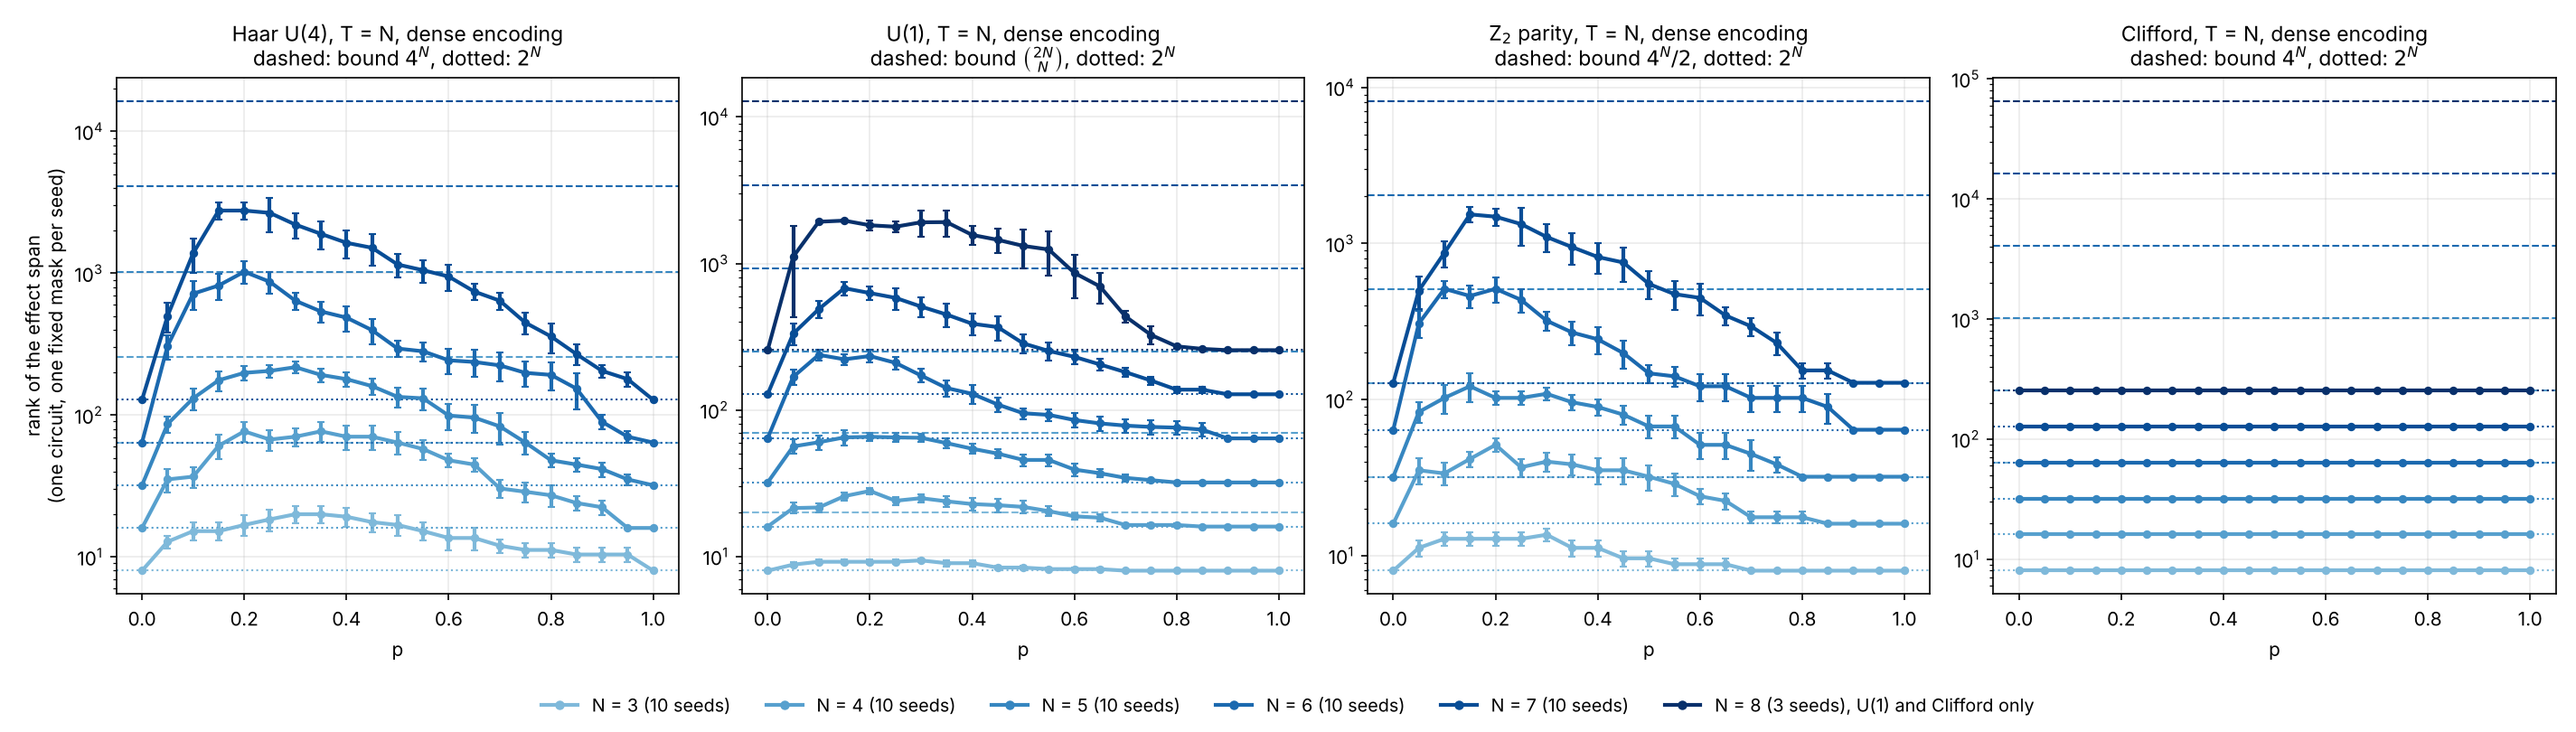
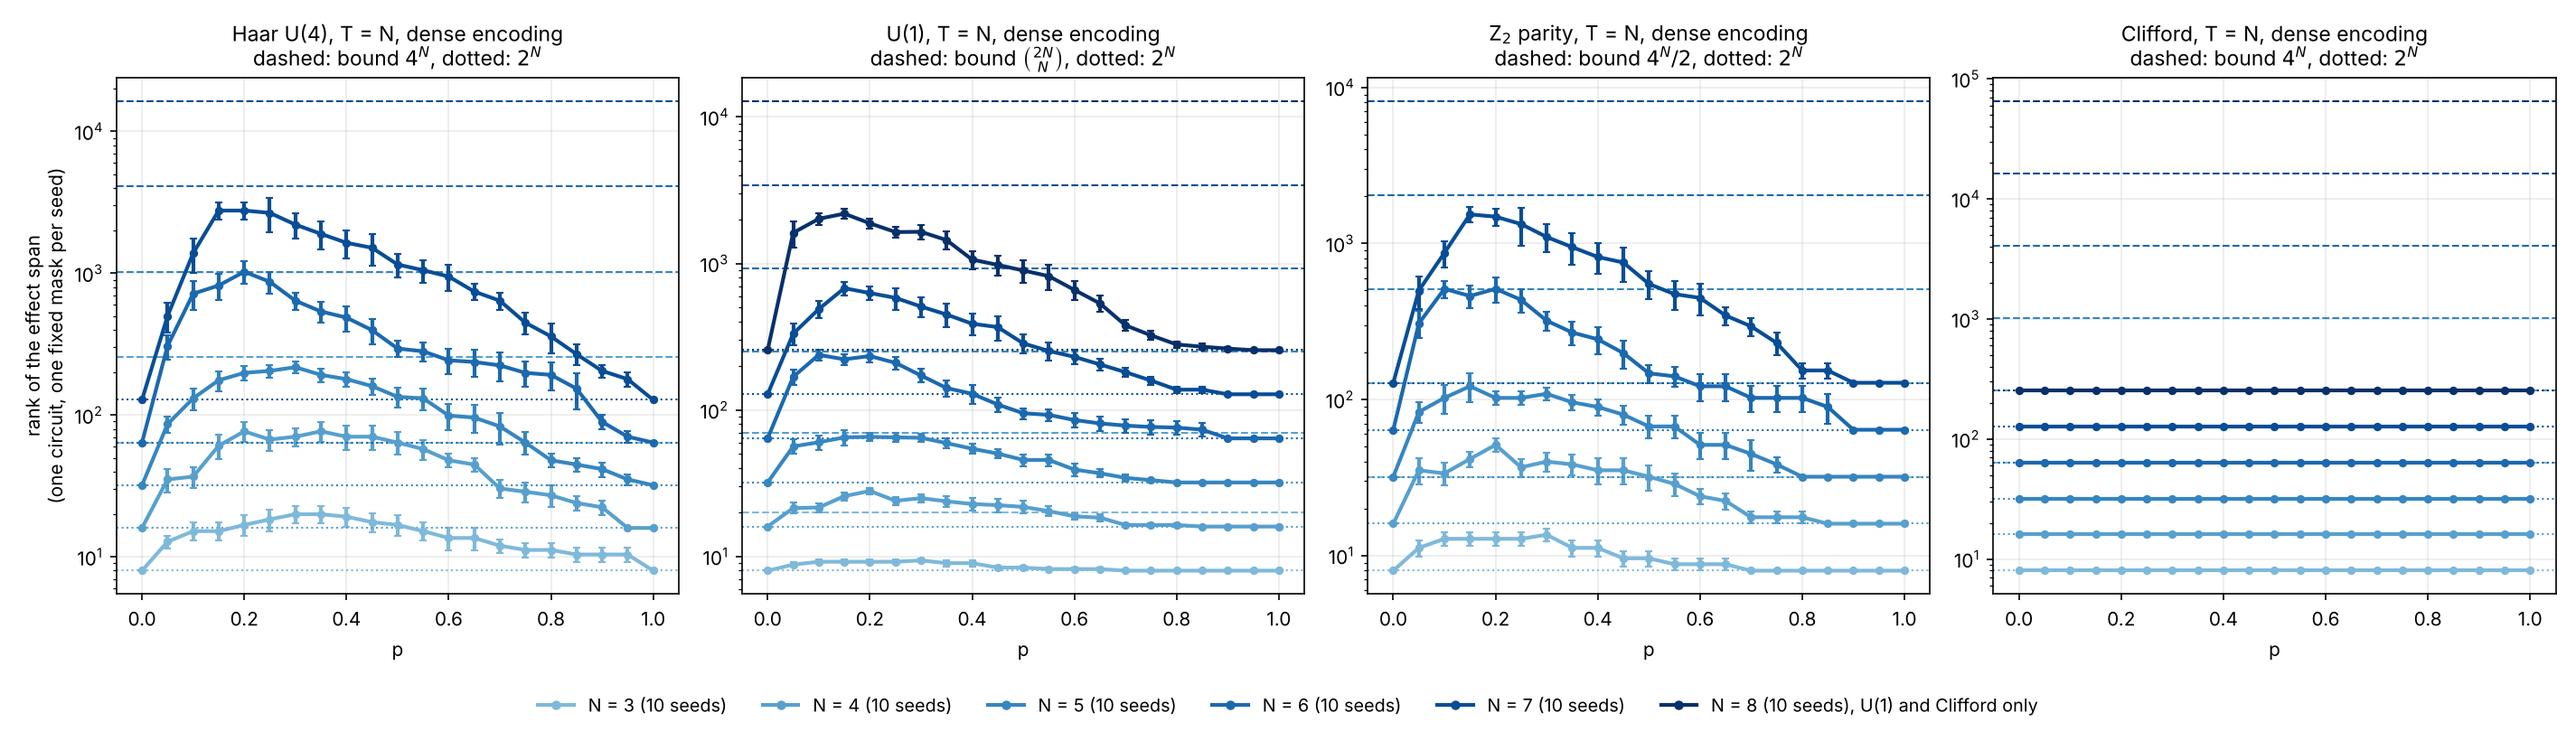
Effect-space rank: N = 8 with 10 seeds for U(1) and Clifford (#313)
Claude-Session: https://claude.ai/code/session_0185MugxcGRu9JhdfzRRnH1t

diff --git a/experiments/effect_rank/README.md b/experiments/effect_rank/README.md
@@ -77,16 +77,18 @@ rank `2^10` alone would take 8 GB.
 - **Angle encoding, near the bound.** At the peak, the angle rank reaches a
   fraction of its bound that grows with `N` for Haar (0.69, 0.76, 0.78, 0.86,
   0.89 of `3^N` from `N = 3` to 7) and Z2 (0.84 to 0.95 of `(3^N + 1) / 2`).
-  U(1) stays near 0.6 of the same bound (0.67 at `N = 3`, 0.60 at `N = 7` and
-  `N = 8`): with the same bound as Z2, U(1) reaches less of it.
+  U(1) stays between 0.53 and 0.68 of the same bound with no trend (0.67 at
+  `N = 3`, 0.60 at `N = 7`, 0.65 at `N = 8`): with the same bound as Z2, U(1)
+  reaches less of it.
 - **Dense encoding, far from the bound.** The dense fraction falls with `N`:
-  0.31 to 0.17 of `4^N` for Haar, 0.47 to 0.15 of `C(2N, N)` for U(1), 0.43
+  0.31 to 0.17 of `4^N` for Haar, 0.47 to 0.17 of `C(2N, N)` for U(1), 0.43
   to 0.19 of `4^N / 2` for Z2 (`N = 3` to 7, U(1) to 8). A fixed mask leaves
   most of the `4^N` directions out of reach.
 - **Clifford.** The dense rank is exactly `2^N` for every `p` and seed: the
   effects stay in the span of one stabilizer group. The angle rank is far
-  below `2^N` (5 at `N = 3`, about 30 to 70 at `N = 7, 8` against 128, 256),
-  with no clear peak.
+  below `2^N` (about 4 at `N = 3`, 16 to 34 at `N = 7` and 25 to 46 at
+  `N = 8`, against 128 and 256), with no clear peak and large spread between
+  circuits.
 - **Caveats.** Ranks are exact up to a relative tolerance of `10^-6` on the
   singular values; the brute-force test validates it at `N = 3`. These are
   infinite-shot ranks: how many of these directions survive a finite number
